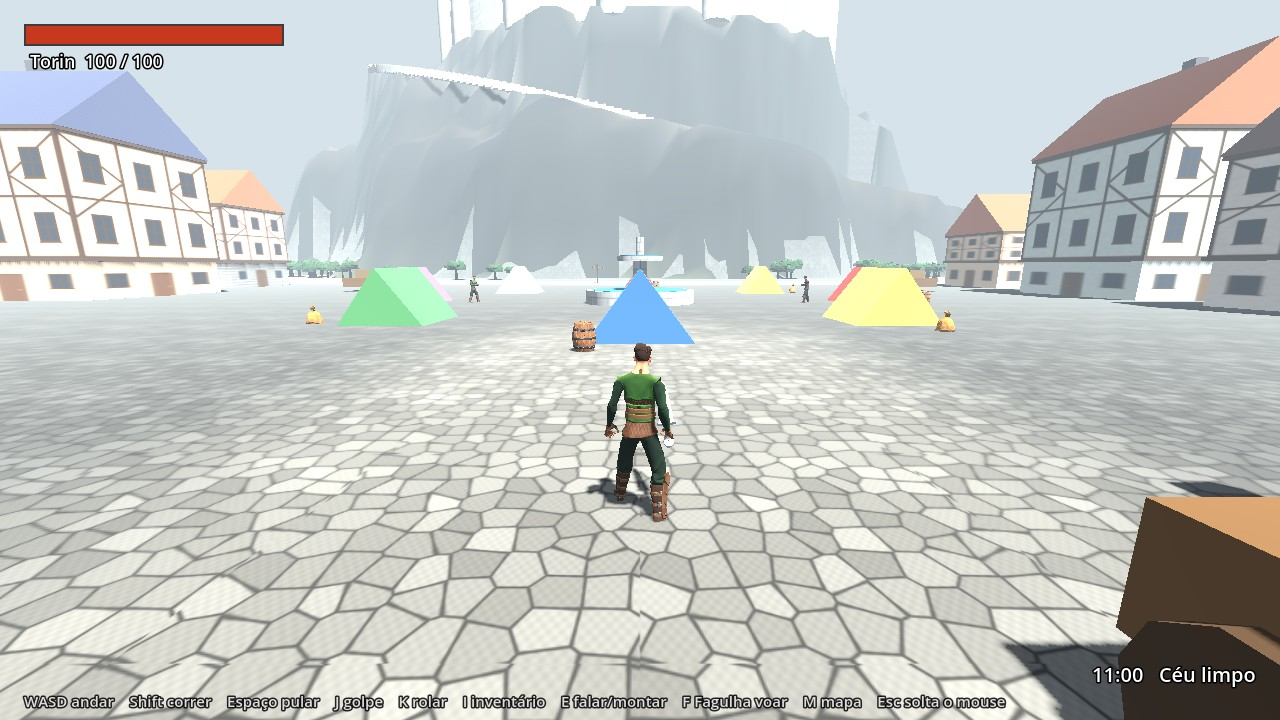
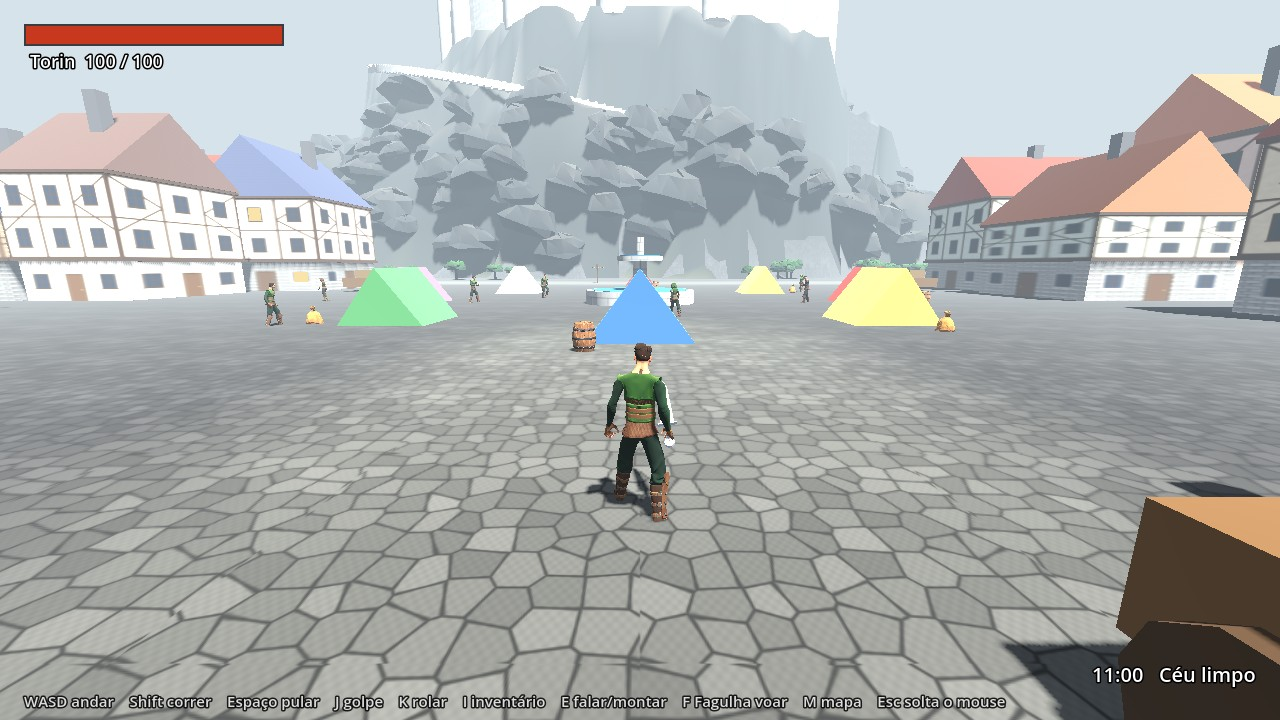
Valdoria entregue: teste do mundo passa inteiro, auditoria do reino com 0 defeito, 23 fotos em docs/mapa-novo/reino_v4/
Catedral gótica com vitrais, janelas acesas, forjas, lampiões, gente nas
ruas e rocha no penhasco conferidos em foto (de dia e à noite). Plano e
ASSETS.md atualizados.

Claude-Session: https://claude.ai/code/session_01Vzt37KowdLhiG16GmA9WD3

diff --git a/assets/ASSETS.md b/assets/ASSETS.md
@@ -328,3 +328,10 @@ Pedida pelo Cristian depois do Marco 7: casas sem teto, plantação que não par
 - Soldados e sentinelas usam `scenes/personagens/guarda_imperial.tscn` como gente (Npc), não como inimigo. Cavalos do estábulo são o `cavalo.glb` já registrado, agora montável em qualquer povoado.
 - Alvos de palha do quartel: dois cilindros (palha e miolo vermelho) num poste; peça simples de cenário, não é modelo final de nada.
 - Plano e estado: `docs/mapa-novo/PLANO-REINO-100.md`. Auditoria: `tools/auditoria_reino.gd`.
+
+## Valdoria na planta do Reino de Aethelgard (25/11/2026)
+- Referência de composição: o pacote `reino-aethelgard` (Three.js, em blocos) feito antes pelo próprio usuário e uma pintura enviada por ele. Só composição e proporção; nenhum arquivo dele entrou no jogo.
+- Tudo gerado por código, sem asset baixado: `scripts/mundo/cidadela.gd`, `casario_do_reino.gd`, `muralha_do_reino.gd`, `calcamento_do_reino.gd`, `vida_das_ruas.gd`, tipos `catedral`, `quartel`, `estabulo`, `mercado`, `guarita`, `lavoura` em `povoado.gd`.
+- Pinturas desenhadas por código: `fachadas.gd` (térreo de pedra e rebocado, sobrado de enxaimel, telhas, luz de janela) e `pedra.gd` (cantaria e calçamento).
+- O rei usa o modelo `scenes/personagens/solon.tscn`; guardas e sentinelas, `guarda_imperial.tscn`; todos como gente (Npc), não como inimigo.
+- As seções mais antigas deste arquivo sobre "o reino de Valdoria" (círculo de 1,1 km, bairros, casas de rua) descrevem versões que não existem mais.

diff --git a/docs/mapa-novo/PLANO-REINO-100.md b/docs/mapa-novo/PLANO-REINO-100.md
@@ -52,5 +52,13 @@ descrevem a versão anterior (círculo com castelo ao norte, depois círculo com
 | Chão calçado de pedra; fonte, lampiões, barris, carroças; jardins ao pé do penhasco |
 | Praça do mercado, feiras nos portões, quartel com campo de treino, estábulos, catedral, 8 lavouras |
 
-Falta do reino de blocos: catedral gótica com vitrais, janelas acesas, forjas e capelas entre as casas, mais gente nas
-ruas, relevo de rocha no paredão. Falta medir os quadros por segundo no Mac e rever a suíte antiga para a ilha.
+| Catedral gótica: nave, naves laterais com contrafortes, vitrais que brilham, torres gêmeas com rosácea, torre do cruzeiro |
+| 1.116 janelas acesas, 26 forjas com a fornalha acesa, 19 lampiões (avenidas sul, oeste e leste) |
+| 27 pessoas circulando pelas ruas, 545 rochas no paredão do penhasco |
+| Pular do penhasco não devolve mais o Torin ao alto (a rede de segurança só age abaixo do chão) |
+
+**Entrega de 25/11/2026:** teste do mundo passa inteiro, auditoria do reino com 0 defeito (641 casas, 110 pessoas e bichos),
+23 fotos em `docs/mapa-novo/reino_v4/`.
+
+Em aberto: desempenho no Mac (não medido), tempo de carga, tubarão ainda provisório, nos sobrados do casario não se
+entra, suíte antiga não revista para a ilha (os testes que passavam por Valdoria e pelo Castelo antigos deixaram de valer).

diff --git a/docs/auditoria/REINO_2026-11-25.md b/docs/auditoria/REINO_2026-11-25.md
@@ -1,4 +1,4 @@
 # Auditoria do reino, 2026-11-25
 
-Conferidos: 641 casas do casario, 4 casas de praça, 3 portões, 105 pessoas e bichos. Defeitos: **0**.
+Conferidos: 641 casas do casario, 4 casas de praça, 3 portões, 110 pessoas e bichos. Defeitos: **0**.
 
